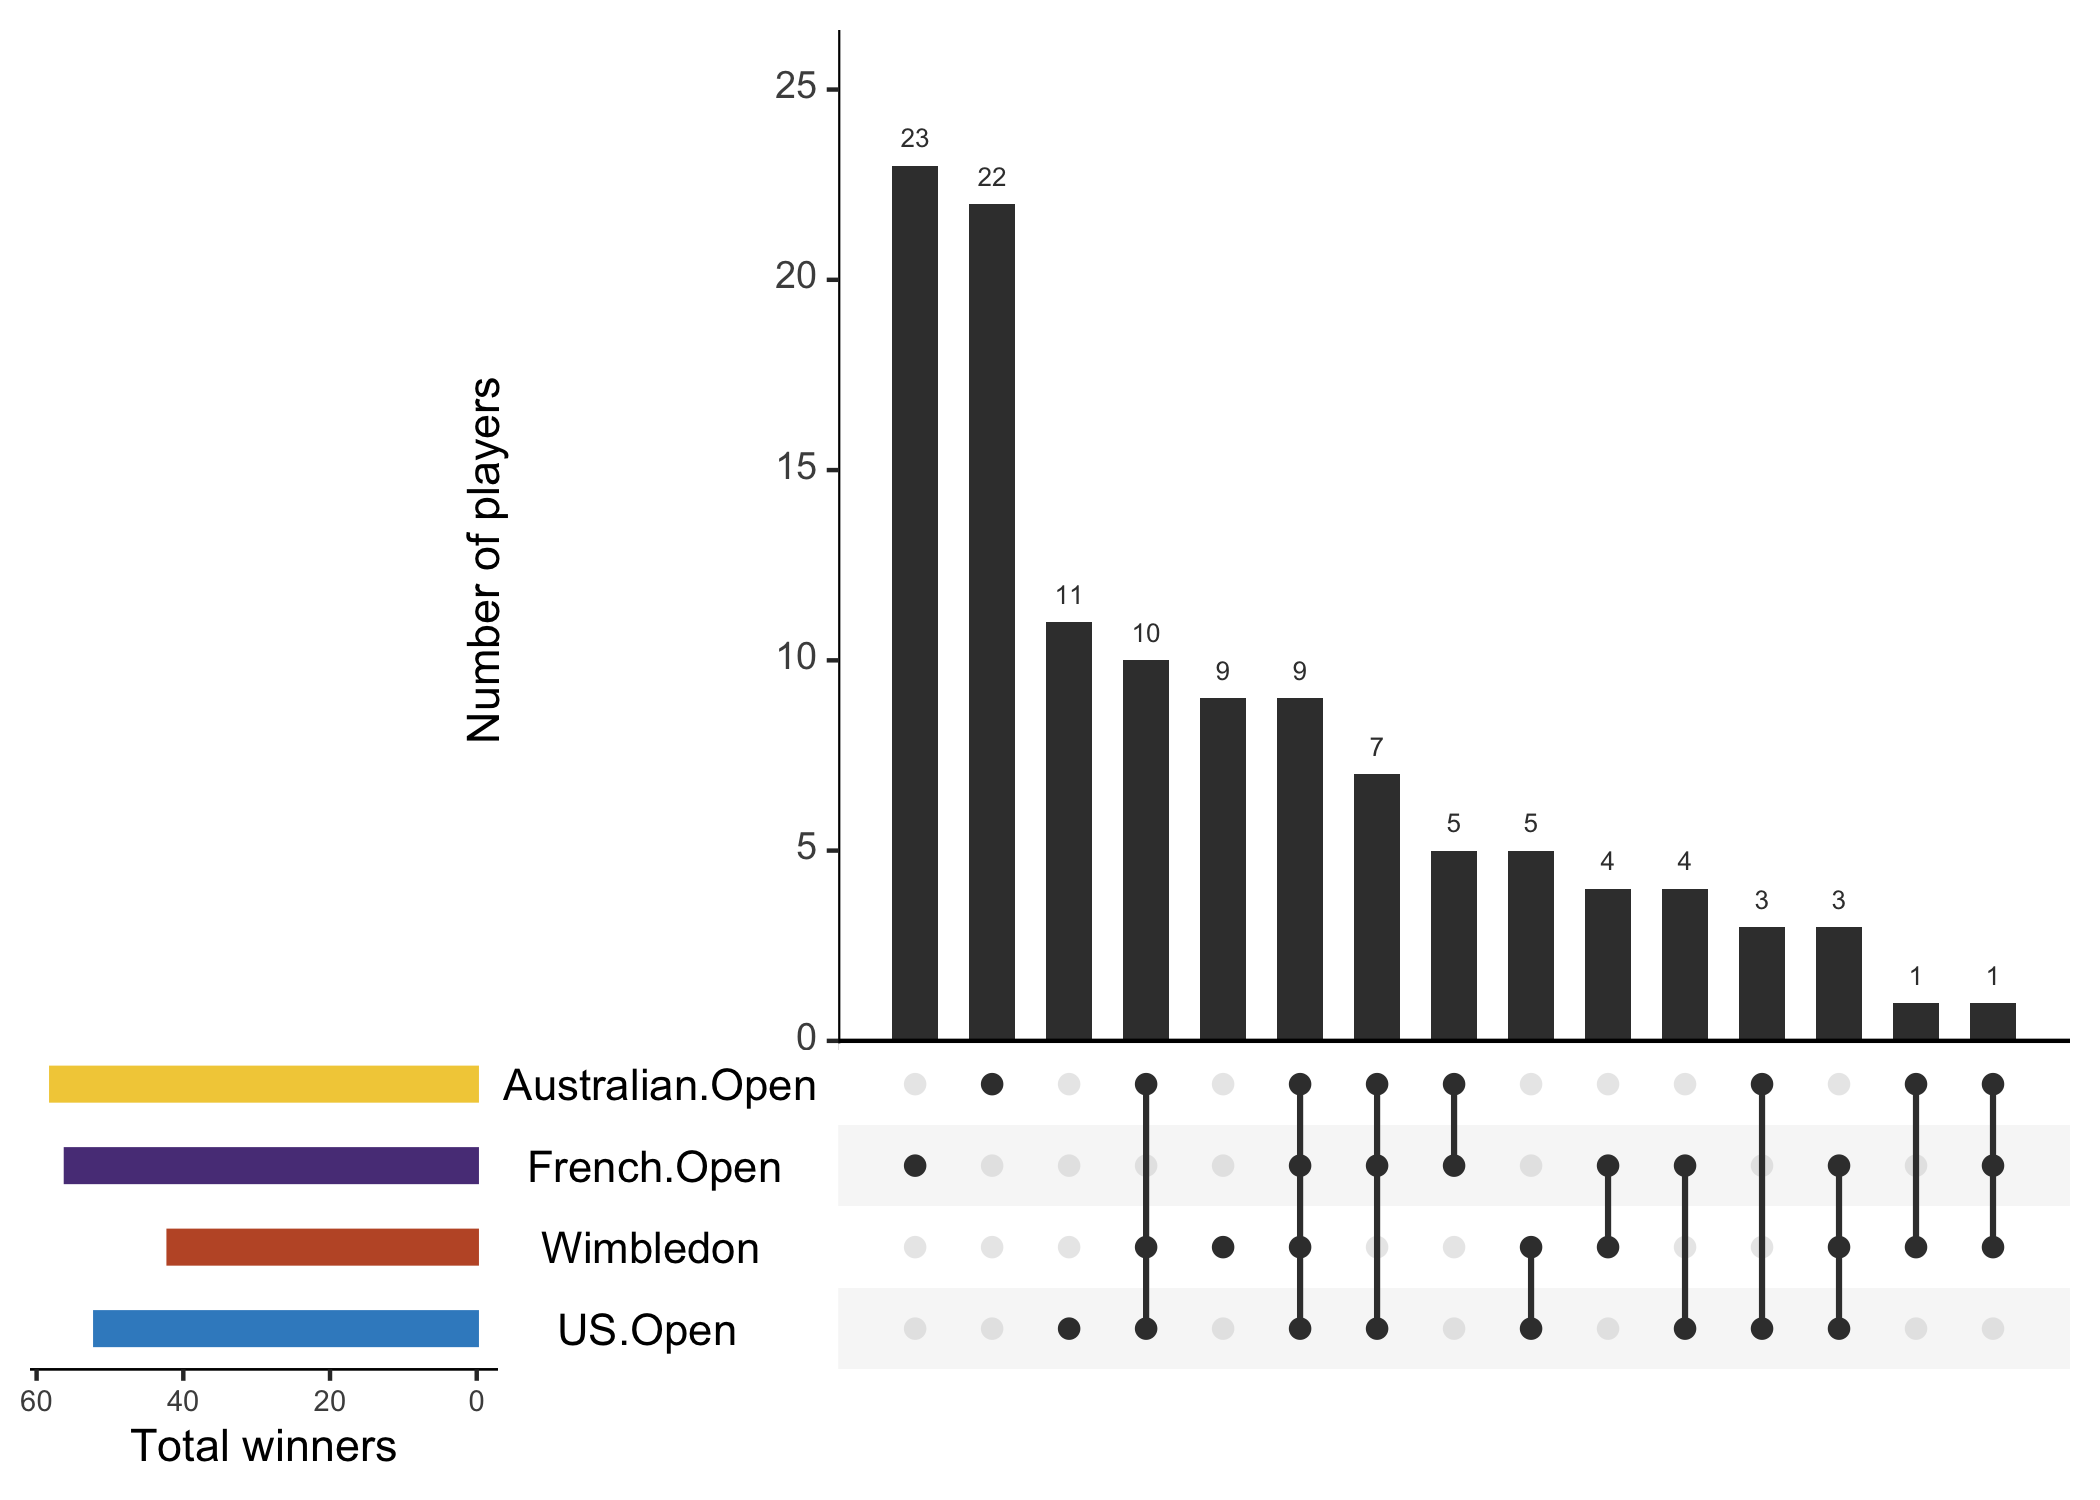
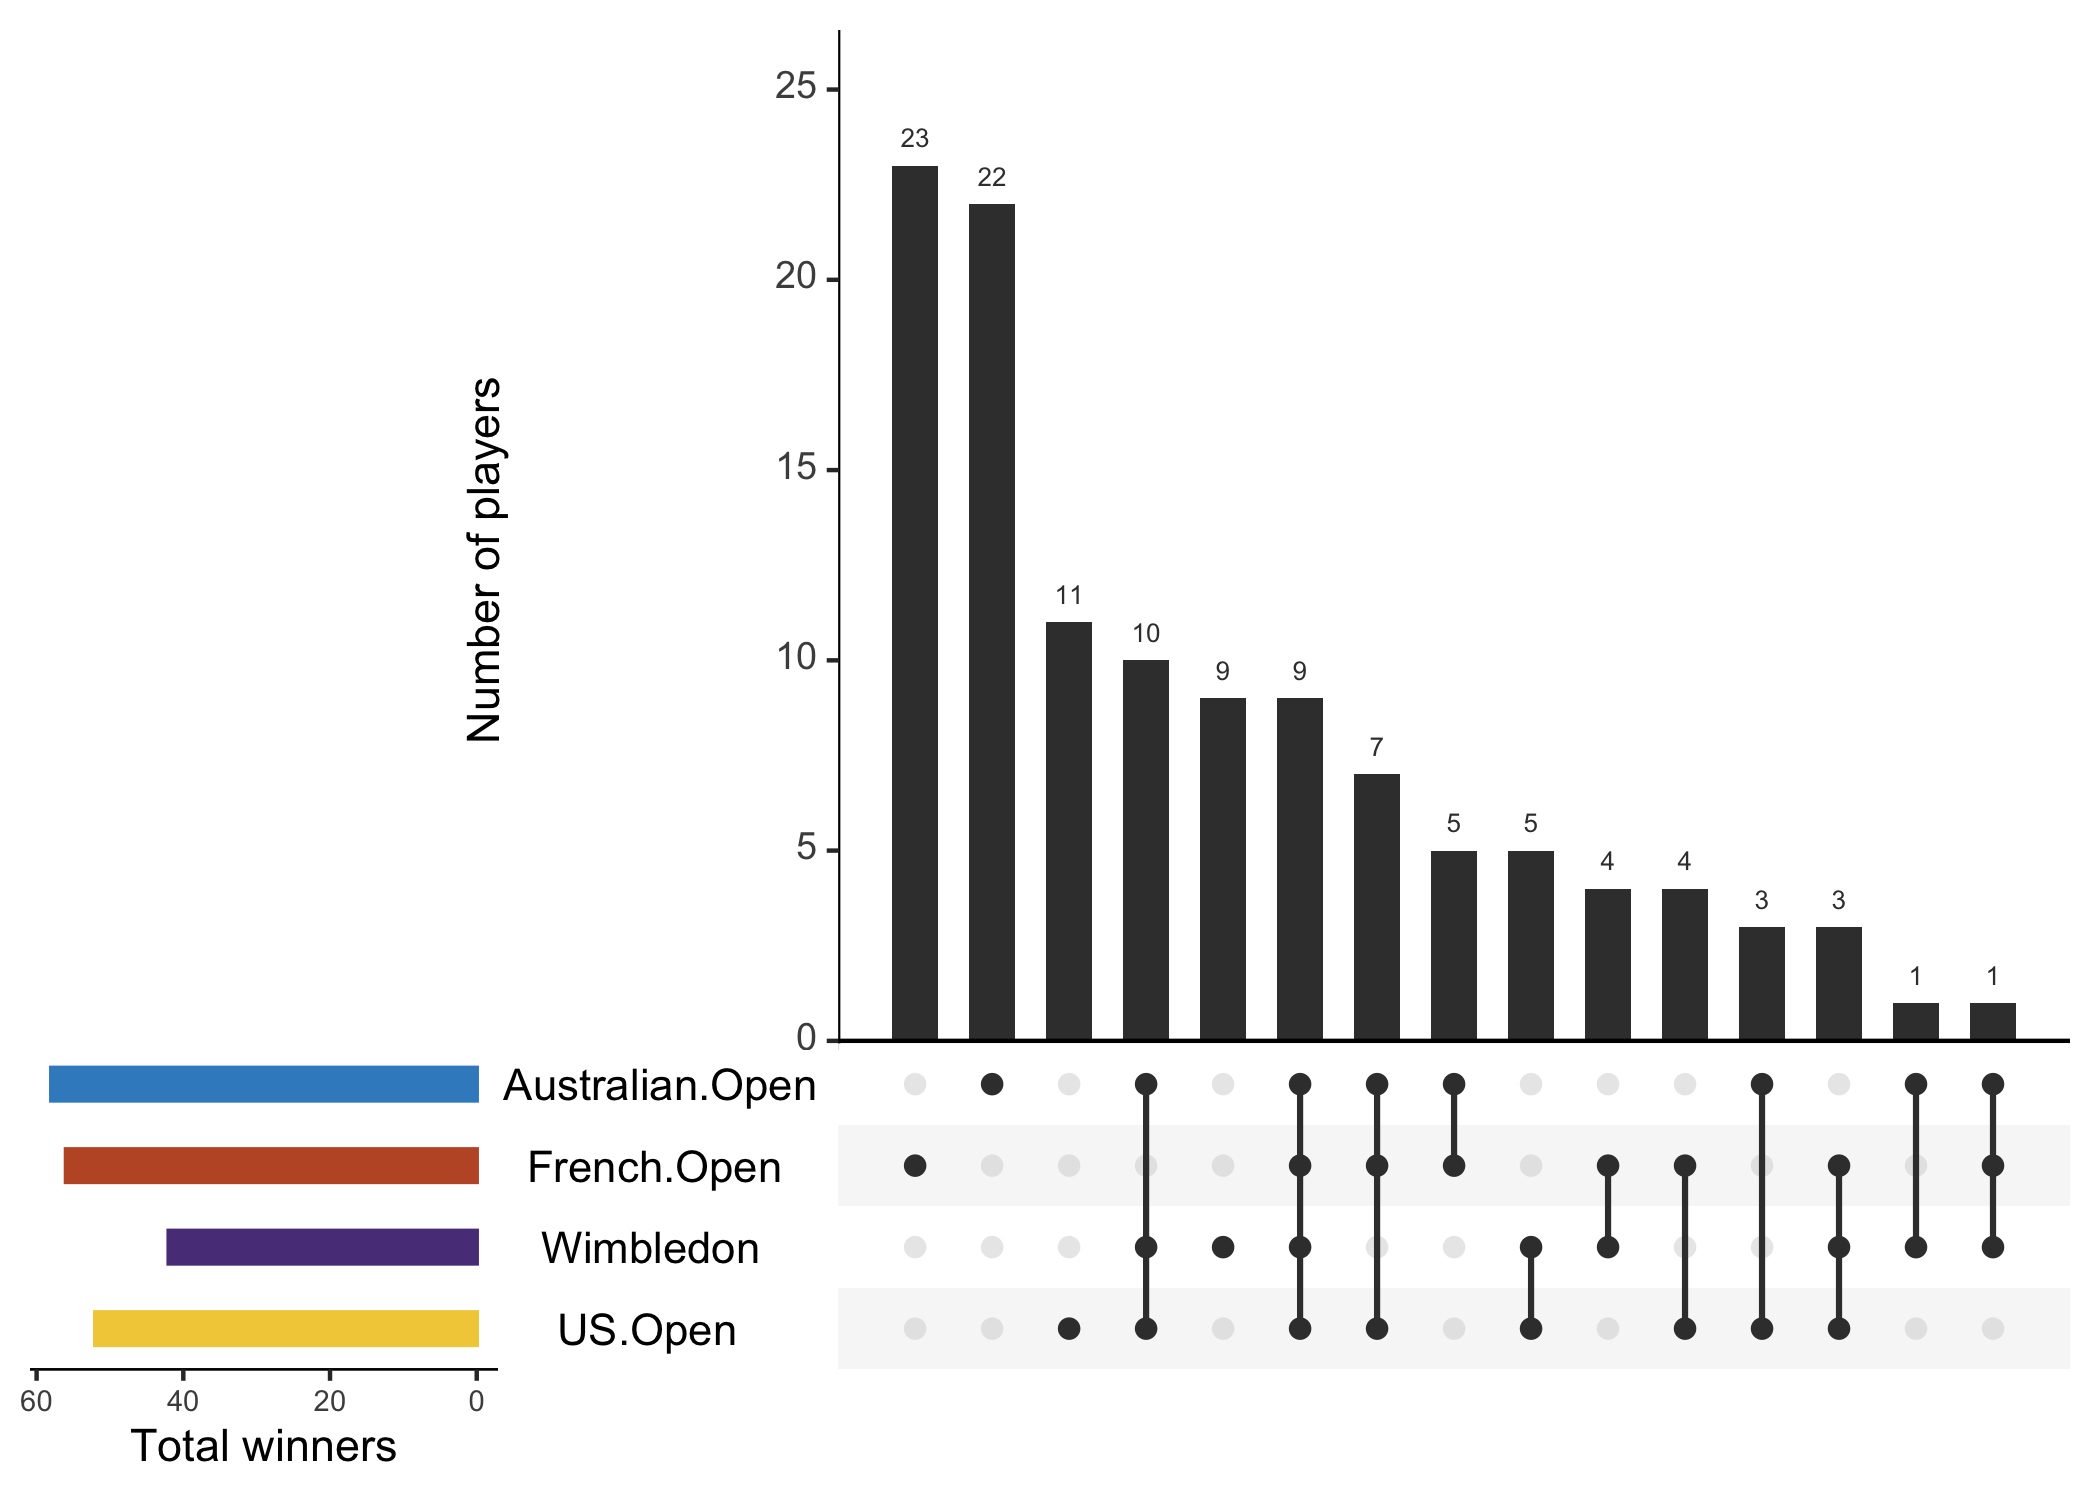
Update figures

Changed region(s): [[0.031, 0.7667, 0.2476, 0.92], [0.0, 0.7053, 0.2476, 0.736]]

diff --git a/_posts/2020-03-26-upsetr-beyond-the-venn-diagram.md b/_posts/2020-03-26-upsetr-beyond-the-venn-diagram.md
@@ -1,6 +1,6 @@
 ---
 title: "UpSetR: Beyond the Venn diagram"
-date: "26/03/2020"
+date: "23/03/2020"
 output: jekyllthat::jekylldown
 image: "https://clarewest.github.io/blog/assets/img/beyond-the-venn-diagramunnamed-chunk-12-1.png"
 summary: "Visualising complex set intersections using UpSetR plots"
@@ -216,7 +216,8 @@ for more
 examples.
 
 ``` r
-slam_colours = c("#3B8CC8", "#C05830", "#5A3E87", "#F2CE46") ## slam colours (too cute, I know)
+slam_colours = c("#3B8CC8", "#C05830", "#5A3E87", "#F2CE46") %>% ## slam colours (too cute, I know)
+  rev()
 tournaments = c("Australian.Open", "French.Open", "Wimbledon", "US.Open") %>% ## crucial order
   rev() ## reversed to be top to bottom
 
